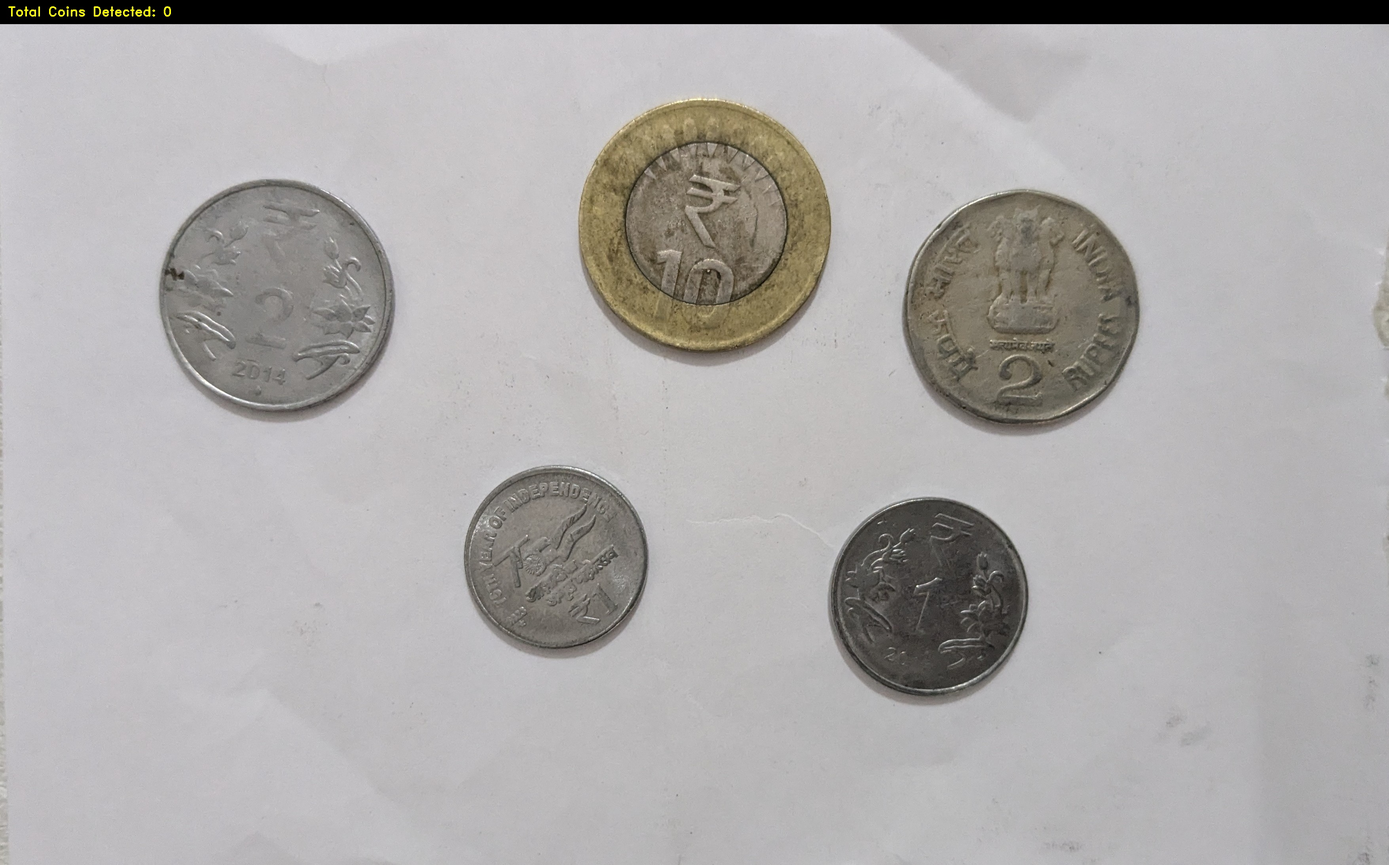
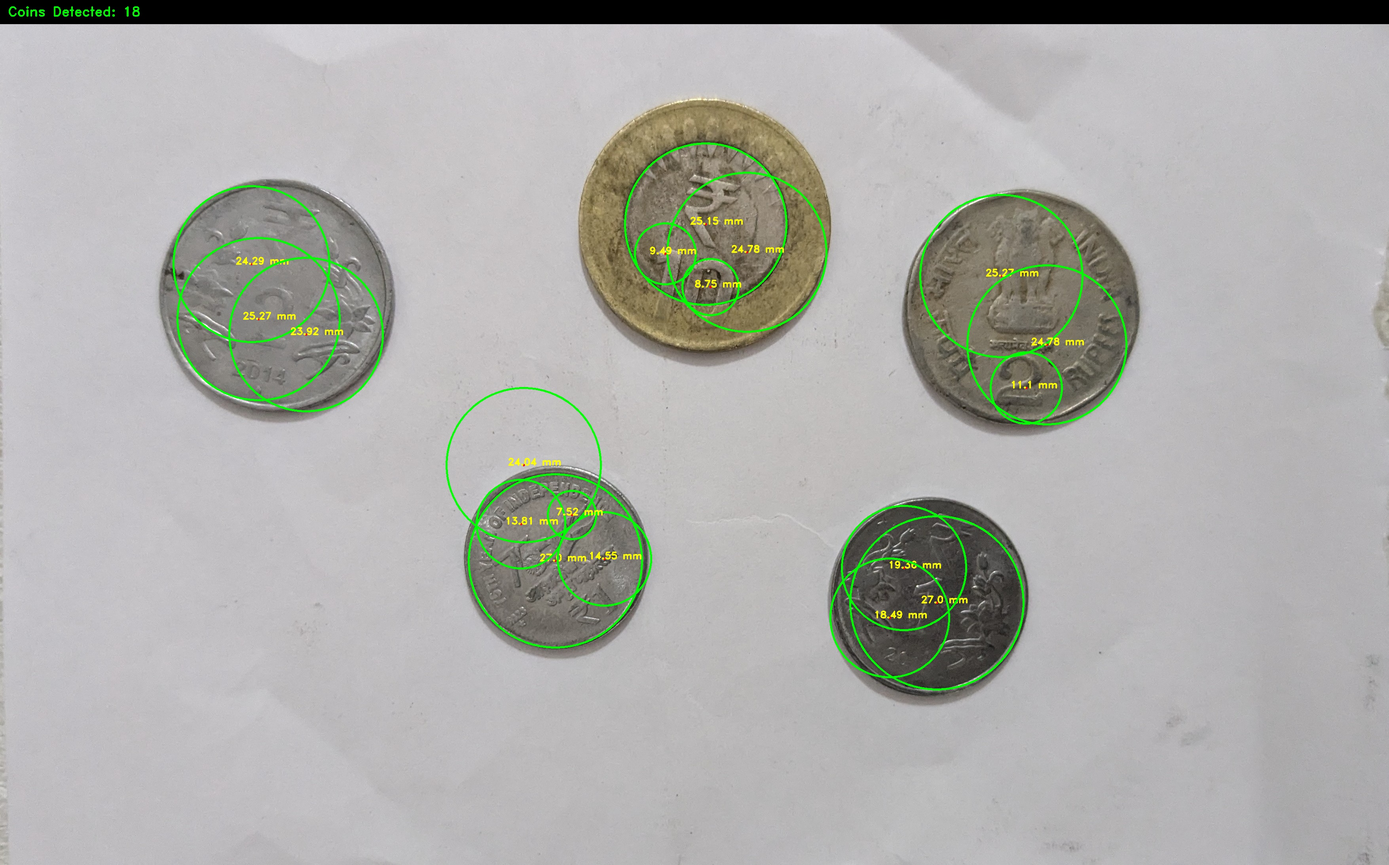
feat(coin-detection): implement automated coin detection and counting and enhance detection accuracy and filtering logic

diff --git a/coin_diameter_measurement/templates/index.html b/coin_diameter_measurement/templates/index.html
@@ -2,50 +2,102 @@
 <html lang="en">
 <head>
     <meta charset="UTF-8">
-    <title>Coin Detection System</title>
-    <style>
-        body {
-            font-family: Arial, sans-serif;
-            background: #0f172a;
-            color: #e5e7eb;
-            text-align: center;
-            padding: 40px;
-        }
-        form {
-            margin-bottom: 30px;
-        }
-        input[type="file"] {
-            margin: 15px;
-        }
-        button {
-            padding: 10px 20px;
-            background: #2563eb;
-            color: white;
-            border: none;
-            cursor: pointer;
-            font-size: 16px;
-        }
-        img {
-            max-width: 90%;
-            border: 3px solid #22c55e;
-            margin-top: 20px;
-        }
-    </style>
+    <title>Coin Diameter Measurement</title>
+    <script src="https://cdn.tailwindcss.com"></script>
 </head>
-<body>
 
-    <h1>🪙 Coin Detection & Measurement</h1>
+<body class="bg-slate-900 text-slate-200 min-h-screen">
 
-    <form method="POST" enctype="multipart/form-data">
-        <input type="file" name="image" required>
-        <br>
-        <button type="submit">Upload & Process</button>
-    </form>
+<div class="max-w-6xl mx-auto px-6 py-10">
 
-    {% if processed_image %}
-        <h2>Processed Image</h2>
-        <img src="{{ url_for('static', filename=processed_image) }}">
+    <!-- Header -->
+    <div class="text-center mb-10">
+        <h1 class="text-4xl font-bold text-sky-400">🪙 Coin Diameter Measurement</h1>
+        <p class="text-slate-400 mt-2">Upload image → Detect coins → Measure diameter</p>
+    </div>
+
+    <!-- Upload Card -->
+    <div class="bg-slate-800 rounded-xl p-8 mb-10 shadow-lg">
+        <form method="POST" enctype="multipart/form-data" class="space-y-6">
+
+            <label class="border-2 border-dashed border-sky-400 rounded-lg p-10 flex flex-col items-center cursor-pointer hover:bg-slate-700">
+                <input id="imageInput" type="file" name="image" accept="image/*" class="hidden" required>
+                <span class="text-sky-400 font-semibold">📁 Click to upload coin image</span>
+            </label>
+
+            <div class="flex gap-4">
+                <button type="submit"
+                    class="w-full bg-sky-400 text-slate-900 font-bold py-3 rounded-lg hover:bg-sky-300">
+                    Process Image
+                </button>
+
+                <button type="button"
+                    onclick="clearResults()"
+                    class="w-full bg-red-500 text-white font-bold py-3 rounded-lg hover:bg-red-400">
+                    Clear
+                </button>
+            </div>
+        </form>
+    </div>
+
+    <!-- Result Section -->
+    {% if output_image %}
+    <div id="resultSection" class="bg-slate-800 rounded-xl p-8 shadow-lg">
+
+        <h2 class="text-2xl font-semibold text-sky-400 mb-6">Detected Coins</h2>
+
+        <div class="flex justify-center mb-8">
+            <img id="resultImage"
+                 src="{{ url_for('static', filename='outputs/' + output_image) }}"
+                 class="rounded-lg border border-slate-600 max-w-full">
+        </div>
+
+        <table id="resultTable" class="w-full border border-slate-700">
+            <thead class="bg-slate-900">
+                <tr>
+                    <th class="p-3 border border-slate-700 text-sky-400">Coin #</th>
+                    <th class="p-3 border border-slate-700 text-sky-400">Diameter (mm)</th>
+                </tr>
+            </thead>
+            <tbody>
+                {% for coin in table %}
+                <tr class="text-center hover:bg-slate-700">
+                    <td class="p-3 border border-slate-700">{{ coin.id }}</td>
+                    <td class="p-3 border border-slate-700">{{ coin.diameter }}</td>
+                </tr>
+                {% endfor %}
+            </tbody>
+        </table>
+
+        <div class="mt-4 text-right text-slate-400">
+            Total Coins:
+            <span class="text-sky-400 font-bold">{{ table|length }}</span>
+        </div>
+    </div>
     {% endif %}
+    
+</div>
+
+<footer class="text-center text-slate-500 py-6">
+    © 2026 Coin Detection System
+        <footer class="text-center text-slate-500 py-6">
+            Developed by Fayas Ismael - <a href="https://github.com/FAYASISMAEL" target="_blank" class="text-sky-400 hover:underline">GitHub Profile</a>
+        </footer>
+</footer>
+
+<!-- ✅ Clear Button Logic -->
+<script>
+function clearResults() {
+
+    // Clear file input
+    const input = document.getElementById("imageInput");
+    if (input) input.value = "";
+
+    // Remove result section if exists
+    const resultSection = document.getElementById("resultSection");
+    if (resultSection) resultSection.remove();
+}
+</script>
 
 </body>
 </html>

diff --git a/coin_diameter_measurement/detector.py b/coin_diameter_measurement/detector.py
@@ -1,71 +1,91 @@
 import cv2
 import numpy as np
-import math
 
 REFERENCE_COIN_DIAMETER_MM = 27.0
-CIRCULARITY_THRESHOLD = 0.82
 MIN_CONTOUR_AREA = 2500
+CIRCULARITY_THRESHOLD = 0.70
 
 
-def is_circle(contour):
-    area = cv2.contourArea(contour)
-    perimeter = cv2.arcLength(contour, True)
-
+def is_circle(cnt):
+    area = cv2.contourArea(cnt)
+    perimeter = cv2.arcLength(cnt, True)
     if perimeter == 0:
-        return False, 0
+        return False
+    circularity = 4 * np.pi * area / (perimeter ** 2)
+    return circularity >= CIRCULARITY_THRESHOLD
 
-    circularity = (4 * math.pi * area) / (perimeter * perimeter)
-    return circularity >= CIRCULARITY_THRESHOLD, circularity
 
+def detect_coins(image_path):
+    image = cv2.imread(image_path)
+    if image is None:
+        raise ValueError("Image not found")
 
-def process_image(input_path, output_path):
-    frame = cv2.imread(input_path)
-    if frame is None:
-        raise ValueError("Unable to read image")
+    output = image.copy()
 
-    gray = cv2.cvtColor(frame, cv2.COLOR_BGR2GRAY)
-    gray = cv2.GaussianBlur(gray, (11, 11), 1.5)
+    gray = cv2.cvtColor(image, cv2.COLOR_BGR2GRAY)
+    blur = cv2.GaussianBlur(gray, (11, 11), 0)
 
-    edges = cv2.Canny(gray, 40, 120)
-    contours, _ = cv2.findContours(edges, cv2.RETR_EXTERNAL, cv2.CHAIN_APPROX_SIMPLE)
+    thresh = cv2.adaptiveThreshold(
+        blur, 255,
+        cv2.ADAPTIVE_THRESH_GAUSSIAN_C,
+        cv2.THRESH_BINARY_INV,
+        21, 3
+    )
 
-    coin_count = 0
+    kernel = cv2.getStructuringElement(cv2.MORPH_ELLIPSE, (5, 5))
+    thresh = cv2.morphologyEx(thresh, cv2.MORPH_CLOSE, kernel, iterations=2)
+
+    contours, _ = cv2.findContours(
+        thresh, cv2.RETR_EXTERNAL, cv2.CHAIN_APPROX_SIMPLE
+    )
+
+    coins = []
 
     for cnt in contours:
         area = cv2.contourArea(cnt)
         if area < MIN_CONTOUR_AREA:
             continue
+        if not is_circle(cnt):
+            continue
 
-        is_circ, circ = is_circle(cnt)
-        x, y, w, h = cv2.boundingRect(cnt)
+        (x, y), radius = cv2.minEnclosingCircle(cnt)
+        coins.append((int(x), int(y), int(radius)))
 
-        if is_circ:
-            coin_count += 1
-            cv2.drawContours(frame, [cnt], -1, (0, 255, 0), 3)
+    if not coins:
+        return output, []
 
-            text = f"Coin {coin_count}"
-            cv2.putText(
-                frame,
-                text,
-                (x, y - 10),
-                cv2.FONT_HERSHEY_DUPLEX,
-                0.9,
-                (0, 255, 0),
-                2
-            )
-        else:
-            cv2.rectangle(frame, (x, y), (x + w, y + h), (255, 0, 0), 2)
+    reference = max(coins, key=lambda c: c[2])
+    pixels_per_mm = (2 * reference[2]) / REFERENCE_COIN_DIAMETER_MM
 
-    # Summary banner
-    cv2.rectangle(frame, (0, 0), (frame.shape[1], 60), (0, 0, 0), -1)
+    table = []
+
+    for idx, (x, y, r) in enumerate(coins, start=1):
+        diameter_mm = round((2 * r) / pixels_per_mm, 2)
+
+        cv2.circle(output, (x, y), r, (0, 255, 0), 2)
+        cv2.putText(
+            output,
+            f"{diameter_mm} mm",
+            (x - 40, y),
+            cv2.FONT_HERSHEY_SIMPLEX,
+            0.6,
+            (0, 255, 0),
+            2
+        )
+
+        table.append({
+            "id": idx,
+            "diameter": diameter_mm
+        })
+
     cv2.putText(
-        frame,
-        f"Total Coins Detected: {coin_count}",
+        output,
+        f"Coins Detected: {len(table)}",
         (20, 40),
-        cv2.FONT_HERSHEY_DUPLEX,
-        1.1,
-        (0, 255, 255),
-        2
+        cv2.FONT_HERSHEY_SIMPLEX,
+        1,
+        (0, 255, 0),
+        3
     )
 
-    cv2.imwrite(output_path, frame)
+    return output, table

diff --git a/coin_diameter_measurement/app.py b/coin_diameter_measurement/app.py
@@ -1,56 +1,46 @@
-from flask import Flask, render_template, request, send_file, redirect, url_for
 import os
-from detector import process_image
-from werkzeug.utils import secure_filename
+import cv2
+from flask import Flask, render_template, request
+from detector import detect_coins
 
 app = Flask(__name__)
 
-BASE_DIR = os.path.dirname(os.path.abspath(__file__))
-UPLOAD_FOLDER = os.path.join(BASE_DIR, "uploads")
-OUTPUT_FOLDER = os.path.join(BASE_DIR, "static", "outputs")
+UPLOAD_FOLDER = "static/uploads"
+OUTPUT_FOLDER = "static/outputs"
 
 os.makedirs(UPLOAD_FOLDER, exist_ok=True)
 os.makedirs(OUTPUT_FOLDER, exist_ok=True)
 
-app.config["UPLOAD_FOLDER"] = UPLOAD_FOLDER
-app.config["OUTPUT_FOLDER"] = OUTPUT_FOLDER
-
-
 @app.route("/", methods=["GET", "POST"])
 def index():
     if request.method == "POST":
+
         if "image" not in request.files:
-            return redirect(request.url)
+            return "No file uploaded", 400
 
         file = request.files["image"]
+
         if file.filename == "":
-            return redirect(request.url)
+            return "No selected file", 400
 
-        filename = secure_filename(file.filename)
-        input_path = os.path.join(app.config["UPLOAD_FOLDER"], filename)
-        output_path = os.path.join(app.config["OUTPUT_FOLDER"], filename)
-
+        input_path = os.path.join(UPLOAD_FOLDER, file.filename)
         file.save(input_path)
 
-        # Process image using OpenCV
-        process_image(input_path, output_path)
+        output_img, table = detect_coins(input_path)
+
+        output_filename = "result.png"
+        output_path = os.path.join(OUTPUT_FOLDER, output_filename)
+        cv2.imwrite(output_path, output_img)
 
         return render_template(
             "index.html",
-            processed_image=f"outputs/{filename}"
+            output_image=output_filename,
+            table=table
         )
 
-    return render_template("index.html", processed_image=None)
+    return render_template("index.html")
 
 
 if __name__ == "__main__":
-    host = "127.0.0.1"
-    port = 5000
-
-    print("\n" + "=" * 50)
-    print("🚀 Coin Detection Flask Server Started")
-    print(f"🌐 Local URL : http://{host}:{port}")
-    print("⛔ Press CTRL + C to stop the server")
-    print("=" * 50 + "\n")
-
-    app.run(host=host, port=port, debug=True)
+    print("Server running at http://127.0.0.1:5000")
+    app.run(debug=True)
